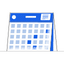
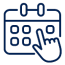
Final Project V3.0

diff --git a/src/views/ReservasView.java b/src/views/ReservasView.java
@@ -110,12 +110,12 @@ public class ReservasView extends JFrame {
 		
 		txtFechaE = new JDateChooser();
 		txtFechaE.getCalendarButton().setBackground(SystemColor.textHighlight);
-		txtFechaE.getCalendarButton().setIcon(new ImageIcon(ReservasView.class.getResource("/imagenes/icon-reservas.png")));
+		txtFechaE.getCalendarButton().setIcon(new ImageIcon(ReservasView.class.getResource("/imagenes/IconoReservas.png")));
 		txtFechaE.getCalendarButton().setFont(new Font("Roboto", Font.PLAIN, 12));
 		txtFechaE.setBounds(68, 161, 289, 35);
 		txtFechaE.getCalendarButton().setBounds(268, 0, 21, 33);
 		txtFechaE.setBackground(Color.WHITE);
-		txtFechaE.setBorder(new LineBorder(SystemColor.window));
+		txtFechaE.setBorder(new LineBorder(SystemColor.WHITE));
 		txtFechaE.setDateFormatString("yyyy-MM-dd");
 		txtFechaE.setFont(new Font("Roboto", Font.PLAIN, 18));
 		panel.add(txtFechaE);
@@ -140,7 +140,7 @@ public class ReservasView extends JFrame {
 		panel.add(lblCheckOut);
 		
 		txtFechaS = new JDateChooser();
-		txtFechaS.getCalendarButton().setIcon(new ImageIcon(ReservasView.class.getResource("/imagenes/icon-reservas.png")));
+		txtFechaS.getCalendarButton().setIcon(new ImageIcon(ReservasView.class.getResource("/imagenes/IconoReservas.png")));
 		txtFechaS.getCalendarButton().setFont(new Font("Roboto", Font.PLAIN, 11));
 		txtFechaS.setBounds(68, 246, 289, 35);
 		txtFechaS.getCalendarButton().setBounds(267, 1, 21, 31);
@@ -207,7 +207,7 @@ public class ReservasView extends JFrame {
 		Logo.setIcon(new ImageIcon(ReservasView.class.getResource("/imagenes/HotelAluraLogo1.png")));
 		
 		JLabel ImagenFondo = new JLabel("");
-		ImagenFondo.setBounds(0, 140, 500, 409);
+		ImagenFondo.setBounds(0, 75, 500, 409);
 		panel_1.add(ImagenFondo);
 		ImagenFondo.setBackground(Color.WHITE);
 		ImagenFondo.setIcon(new ImageIcon(ReservasView.class.getResource("/imagenes/reservas-img-3.png")));
@@ -315,10 +315,10 @@ public class ReservasView extends JFrame {
 		panel.add(btnsiguiente);
 		btnsiguiente.setCursor(new java.awt.Cursor(java.awt.Cursor.HAND_CURSOR));
 		
-		JLabel lblSiguiente = new JLabel("SIGUIENTE");
+		JLabel lblSiguiente = new JLabel("Siguiente");
 		lblSiguiente.setHorizontalAlignment(SwingConstants.CENTER);
 		lblSiguiente.setForeground(Color.WHITE);
-		lblSiguiente.setFont(new Font("Roboto", Font.PLAIN, 18));
+		lblSiguiente.setFont(new Font("Roboto", Font.PLAIN, 16));
 		lblSiguiente.setBounds(0, 0, 122, 35);
 		btnsiguiente.add(lblSiguiente);
 	}

diff --git a/src/views/RegistroHuesped.java b/src/views/RegistroHuesped.java
@@ -84,7 +84,7 @@ public class RegistroHuesped extends JFrame {
 		header.setOpaque(false);
 		header.setBounds(0, 0, 910, 36);
 		contentPane.add(header);
-		
+
 		JPanel btnAtras = new JPanel();
 		btnAtras.addMouseListener(new MouseAdapter() {
 			@Override
@@ -135,7 +135,7 @@ public class RegistroHuesped extends JFrame {
 		
 		txtFechaN = new JDateChooser();
 		txtFechaN.setBounds(560, 278, 285, 36);
-		txtFechaN.getCalendarButton().setIcon(new ImageIcon(RegistroHuesped.class.getResource("/imagenes/icon-reservas.png")));
+		txtFechaN.getCalendarButton().setIcon(new ImageIcon(RegistroHuesped.class.getResource("/imagenes/IconoReservas.png")));
 		txtFechaN.getCalendarButton().setBackground(SystemColor.WHITE);
 		txtFechaN.setDateFormatString("yyyy-MM-dd");
 		contentPane.add(txtFechaN);

diff --git a/src/views/Busqueda.java b/src/views/Busqueda.java
@@ -70,7 +70,7 @@ public class Busqueda extends JFrame {
 	public Busqueda() {
 		this.reservaController = new ReservasController();
 		this.huespedesController = new HuespedesController();
-		setIconImage(Toolkit.getDefaultToolkit().getImage(Busqueda.class.getResource("/imagenes/lupa2.png")));
+		setIconImage(Toolkit.getDefaultToolkit().getImage(Busqueda.class.getResource("/imagenes/Lupa2.png")));
 		setDefaultCloseOperation(JFrame.EXIT_ON_CLOSE);
 		setBounds(100, 100, 910, 571);
 		contentPane = new JPanel();

diff --git a/src/views/MenuPrincipal.java b/src/views/MenuPrincipal.java
@@ -151,7 +151,7 @@ public class MenuPrincipal extends JFrame {
 		lblLogin.setBounds(0, 0, 80, 70);
 		btnLogin.add(lblLogin);
 		lblLogin.setHorizontalAlignment(SwingConstants.CENTER);
-		lblLogin.setIcon(new ImageIcon(MenuPrincipal.class.getResource("/imagenes/login.png")));
+		lblLogin.setIcon(new ImageIcon(MenuPrincipal.class.getResource("/imagenes/Login.png")));
 
 		JLabel lblTitulo = new JLabel("Login");
 		lblTitulo.setBounds(754, 265, 83, 24);
